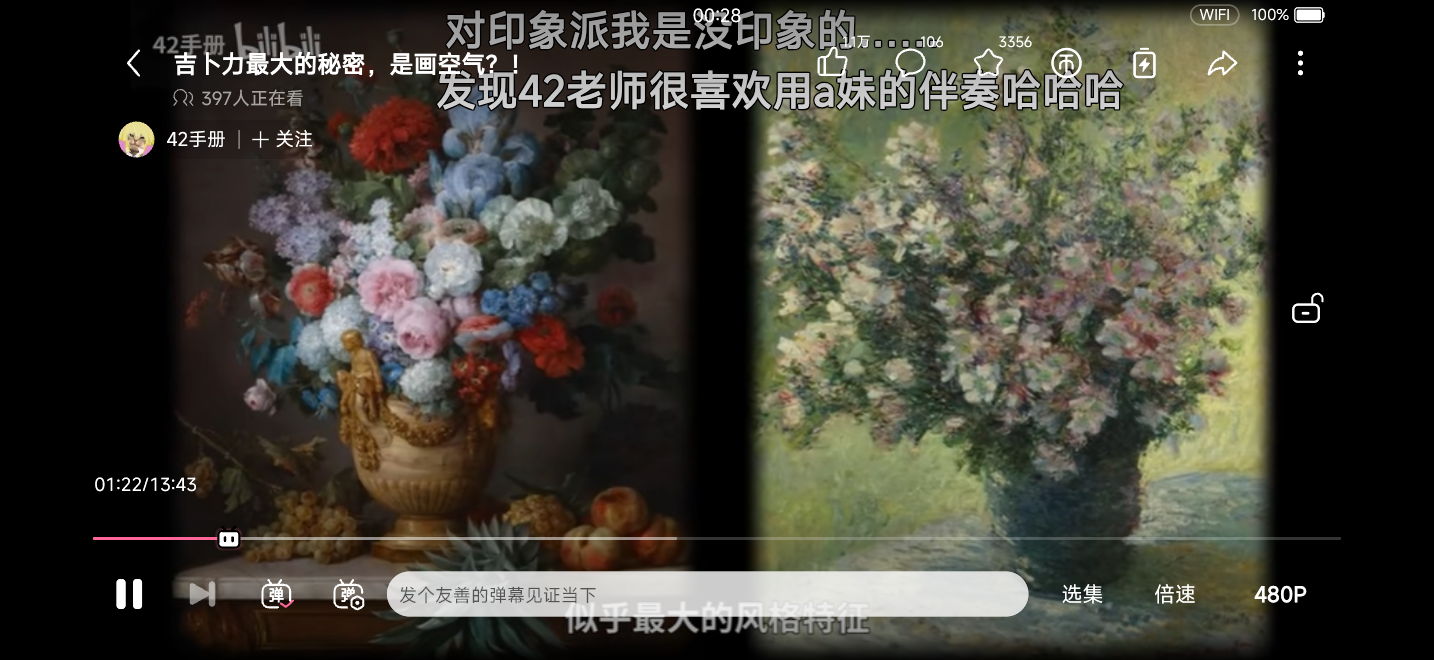
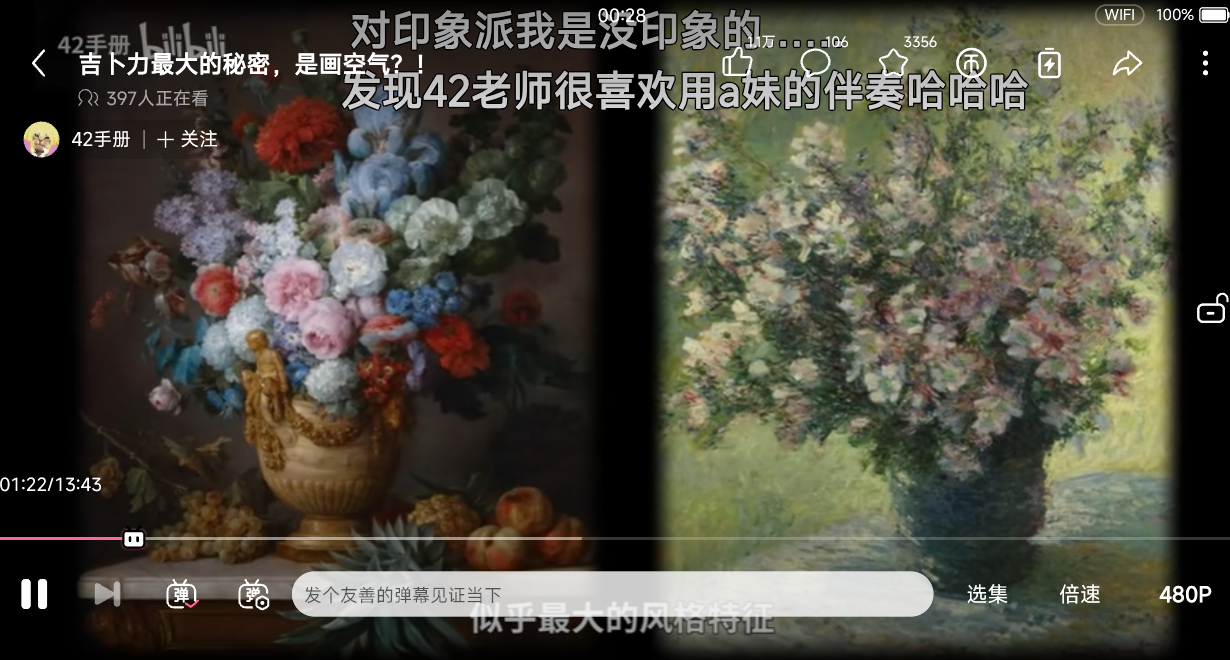
README: the full-screen shot without its black side bars, the row's widths rebalanced

diff --git a/README.md b/README.md
@@ -11,9 +11,9 @@
   [**安装**](#-安装) · [功能](#-功能) · [常见问题](#-常见问题) · [播放原理](#-播放原理) · [实测](#-实测) · [Releases](https://github.com/KaiC5504/BiliFast/releases)
 
   <!-- 截图都是我们自己的 App（Windows 版，未登录），不放官方 App 的截图。 -->
-  <img src="docs/screenshots/home.png" width="14.5%" alt="首页" />
-  <img src="docs/screenshots/video.png" width="14.5%" alt="视频页" />
-  <img src="docs/screenshots/landscape.png" width="67%" alt="全屏" />
+  <img src="docs/screenshots/home.png" width="16%" alt="首页" />
+  <img src="docs/screenshots/video.png" width="16%" alt="视频页" />
+  <img src="docs/screenshots/landscape.png" width="63.8%" alt="全屏" />
 </div>
 
 BiliFast 是一个从零开始写的第三方 B 站客户端，用 Flutter 开发，不是在官方 App 上打补丁。目标就两个：
